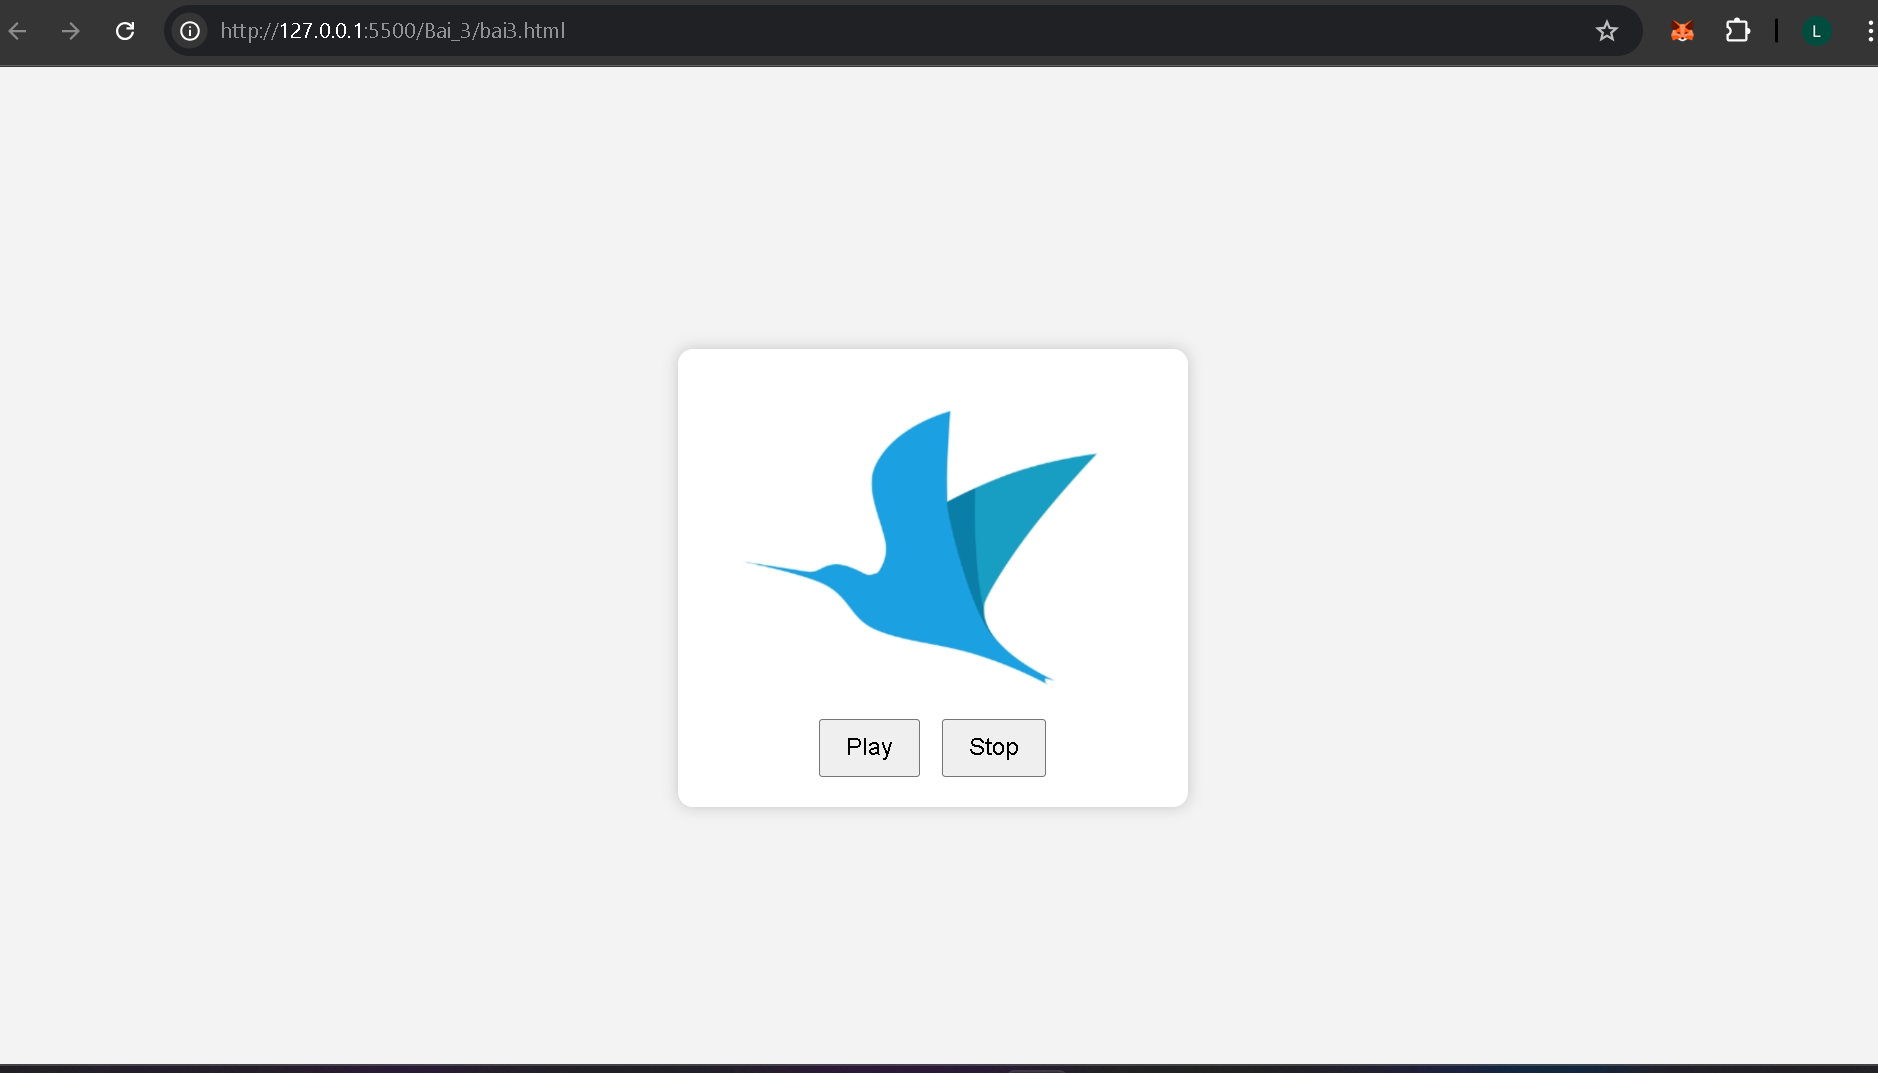
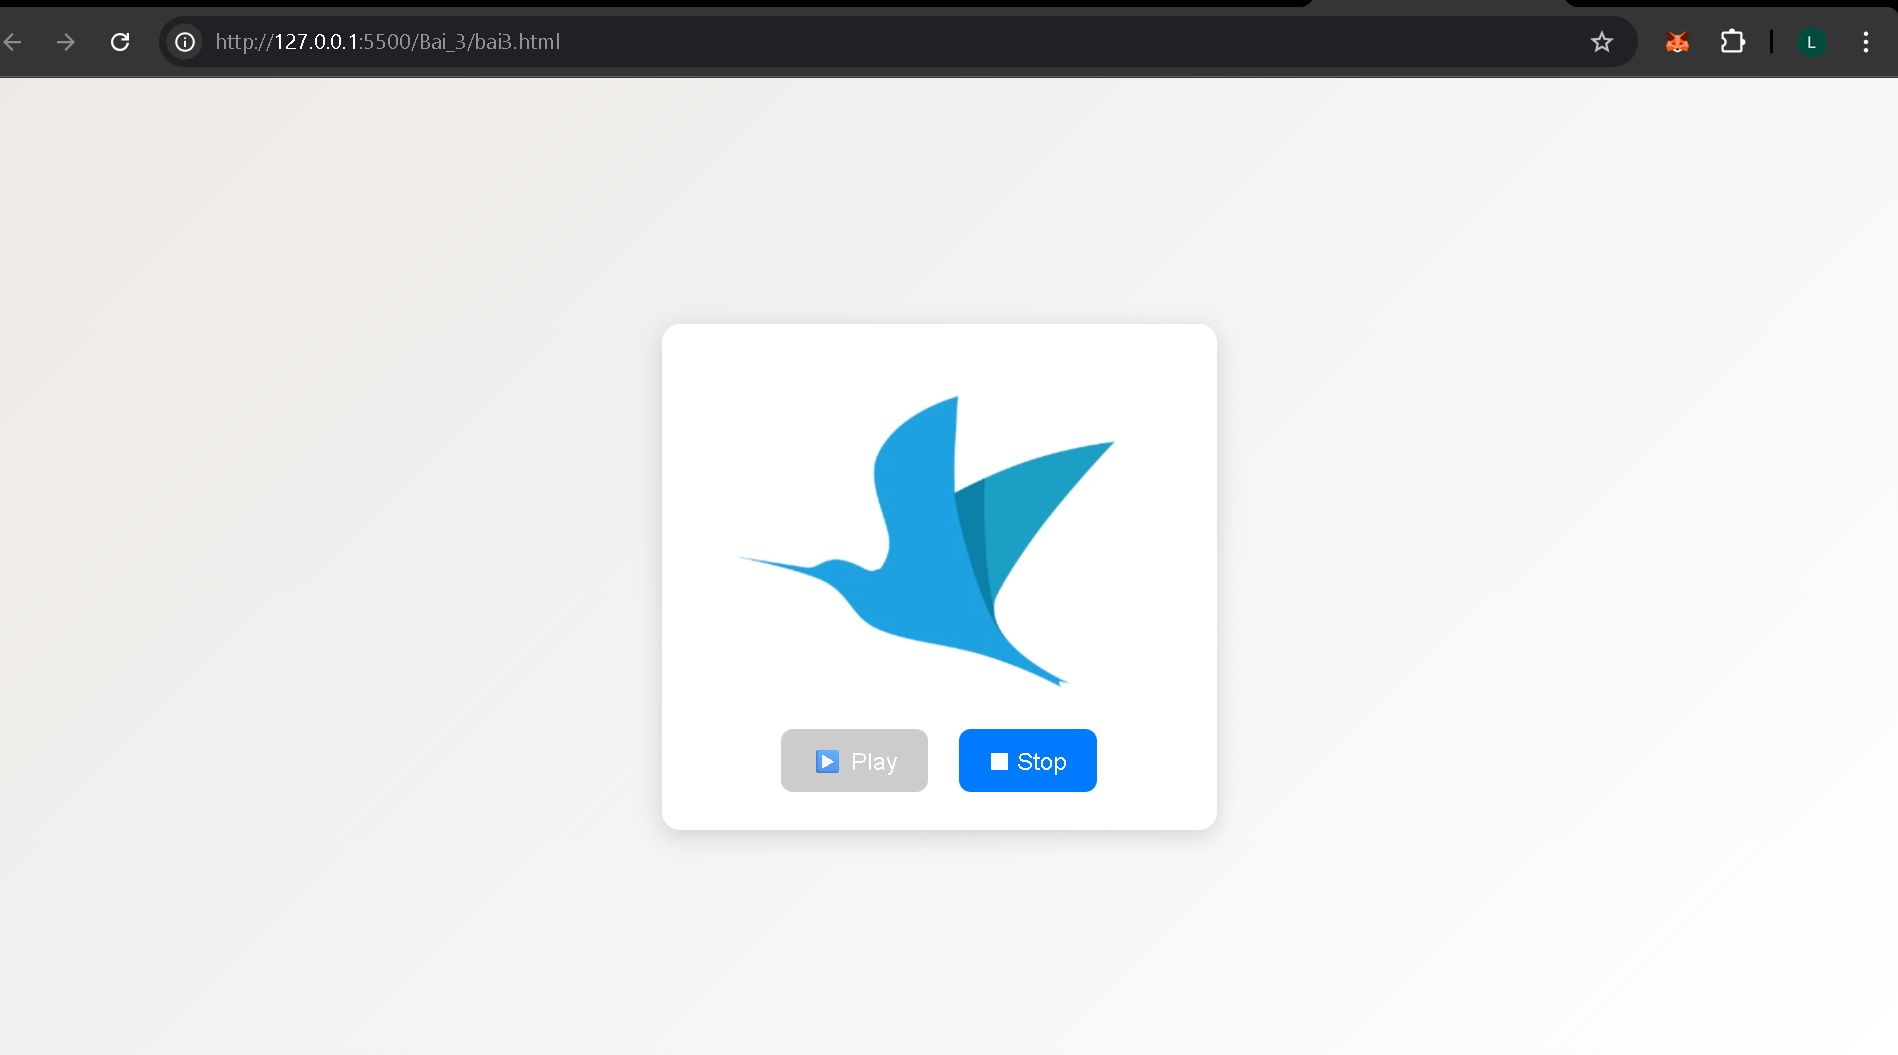
update bai3

diff --git a/Bai-Tap-Javascript/Bai_3/js/bai3.js b/Bai-Tap-Javascript/Bai_3/js/bai3.js
@@ -1,22 +1,46 @@
+// Lấy phần tử DOM
 const imageElement = document.getElementById('randomImage');
-const imageList = [];
+const playBtn = document.getElementById('playBtn');
+const stopBtn = document.getElementById('stopBtn');
 
-for (let i = 1; i <= 10; i++) {
-  imageList.push(`images/b${i}.jpg`);
-}
+// Danh sách ảnh
+const imageList = Array.from({ length: 10 }, (_, i) => `images/b${i + 1}.jpg`);
 
 let intervalId = null;
 
-function startChanging() {
-  if (intervalId) return; // tránh chạy nhiều lần
+// Hàm đổi ảnh ngẫu nhiên
+const changeImage = () => {
+  const randomIndex = Math.floor(Math.random() * imageList.length);
+  const newImage = imageList[randomIndex];
 
-  intervalId = setInterval(() => {
-    const randomIndex = Math.floor(Math.random() * imageList.length);
-    imageElement.src = imageList[randomIndex];
-  }, 1000);
-}
+  // Hiệu ứng mờ dần
+  imageElement.style.opacity = 0;
+  setTimeout(() => {
+    imageElement.src = newImage;
+    imageElement.style.opacity = 1;
+  }, 300);
+};
 
-function stopChanging() {
+// Bắt đầu đổi ảnh
+const startChanging = () => {
+  if (intervalId) return;
+
+  playBtn.disabled = true;
+  stopBtn.disabled = false;
+
+  changeImage();
+  intervalId = setInterval(changeImage, 1000);
+};
+
+// Dừng đổi ảnh
+const stopChanging = () => {
   clearInterval(intervalId);
   intervalId = null;
-}
+
+  playBtn.disabled = false;
+  stopBtn.disabled = true;
+};
+
+// Gắn sự kiện cho nút
+playBtn.addEventListener('click', startChanging);
+stopBtn.addEventListener('click', stopChanging);

diff --git a/Bai-Tap-Javascript/Bai_3/css/bai3.css b/Bai-Tap-Javascript/Bai_3/css/bai3.css
@@ -1,33 +1,58 @@
+/* Thiết kế giao diện tổng thể */
 body {
-  font-family: Arial, sans-serif;
-  background: #f3f3f3;
+  font-family: 'Segoe UI', Tahoma, sans-serif;
+  background: linear-gradient(135deg, #ece9e6, #ffffff);
   display: flex;
   justify-content: center;
   align-items: center;
   height: 100vh;
+  margin: 0;
 }
 
+/* Hộp chứa nội dung chính */
 .container {
   text-align: center;
-  background: white;
-  padding: 20px;
-  border-radius: 10px;
-  box-shadow: 0 0 10px rgba(0, 0, 0, 0.2);
+  background: #fff;
+  padding: 25px;
+  border-radius: 12px;
+  box-shadow: 0 4px 15px rgba(0, 0, 0, 0.15);
+  transition: transform 0.2s ease;
 }
 
-img {
-  max-width: 300px;
+.container:hover {
+  transform: translateY(-3px);
+}
+
+/* Hình ảnh */
+#randomImage {
+  max-width: 320px;
   height: auto;
   border-radius: 10px;
+  transition: opacity 0.5s ease-in-out;
 }
 
+/* Nút bấm */
 .buttons {
-  margin-top: 10px;
+  margin-top: 15px;
 }
 
 button {
-  padding: 8px 16px;
-  margin: 0 5px;
+  padding: 10px 20px;
+  margin: 0 8px;
   font-size: 16px;
+  border: none;
+  border-radius: 8px;
+  background-color: #007bff;
+  color: white;
   cursor: pointer;
+  transition: background-color 0.3s ease;
+}
+
+button:hover {
+  background-color: #0056b3;
+}
+
+button:disabled {
+  background-color: #ccc;
+  cursor: not-allowed;
 }

diff --git a/Bai-Tap-Javascript/Bai_3/bai3.html b/Bai-Tap-Javascript/Bai_3/bai3.html
@@ -2,17 +2,18 @@
 <html lang="vi">
 <head>
   <meta charset="UTF-8">
-  <title>Random Image Switcher</title>
+  <title>Trình đổi ảnh ngẫu nhiên</title>
   <link rel="stylesheet" href="css/bai3.css">
 </head>
 <body>
-  <div class="container">
-    <img id="randomImage" src="images/b1.jpg" alt="Random" />
+  <main class="container">
+    <img id="randomImage" src="images/b1.jpg" alt="Ảnh ngẫu nhiên">
     <div class="buttons">
-      <button onclick="startChanging()">Play</button>
-      <button onclick="stopChanging()">Stop</button>
+      <button id="playBtn">▶ Play</button>
+      <button id="stopBtn" disabled>⏹ Stop</button>
     </div>
-  </div>
+  </main>
+
   <script src="js/bai3.js"></script>
 </body>
 </html>
